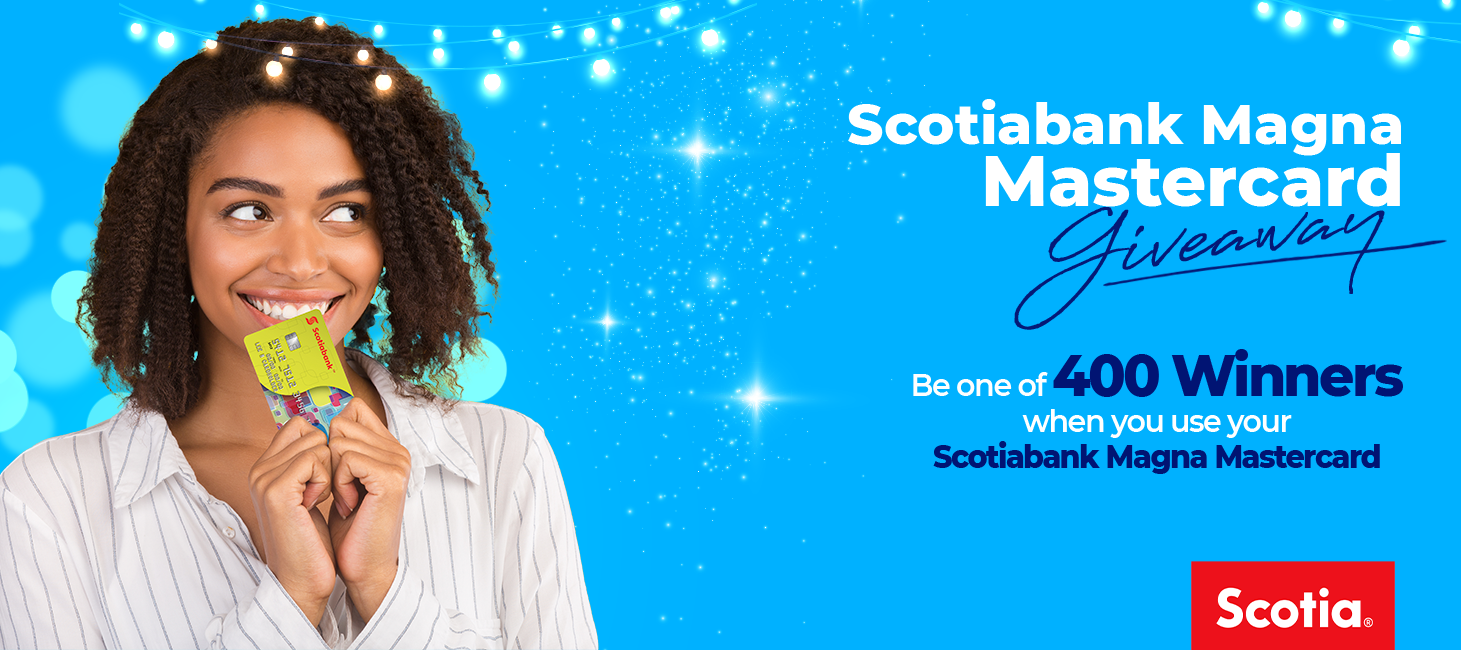
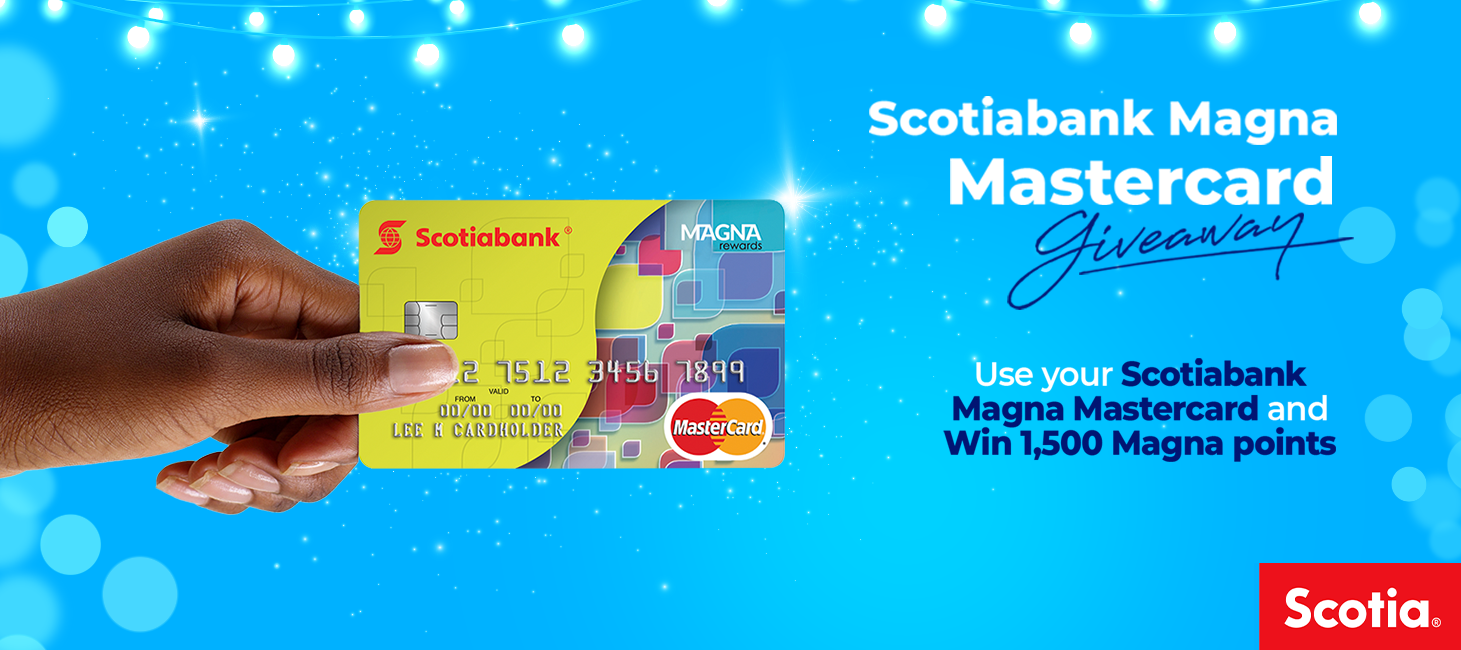
updated

diff --git a/src/style.css b/src/style.css
@@ -91,10 +91,10 @@ p.orientation{
  #banner{
     /*padding: 5%; */
     width: 100vh;
-    min-height: 550px;
+    min-height: 660px;
      background-image: url(./media/banner-1920x650.png);
      background-repeat: no-repeat;
-     background-size: contain !important;
+     background-size: cover !important;
      background-color: #00b1ff;
  }
 
@@ -112,7 +112,7 @@ p.orientation{
   #banner{
     width: 100vh;
     height: auto;
-     background-image: url(./media/Mobile-banner.png) !important;
+     background-image: url(./media/Scotia_Magna_Promo_5.png) !important;
      background-size: cover !important;
      
    }

diff --git a/src/scrip.js b/src/scrip.js
@@ -1,1 +1,1 @@
-document.addEventListener('contextmenu', event => event.preventDefault());
+//document.addEventListener('contextmenu', event => event.preventDefault());
